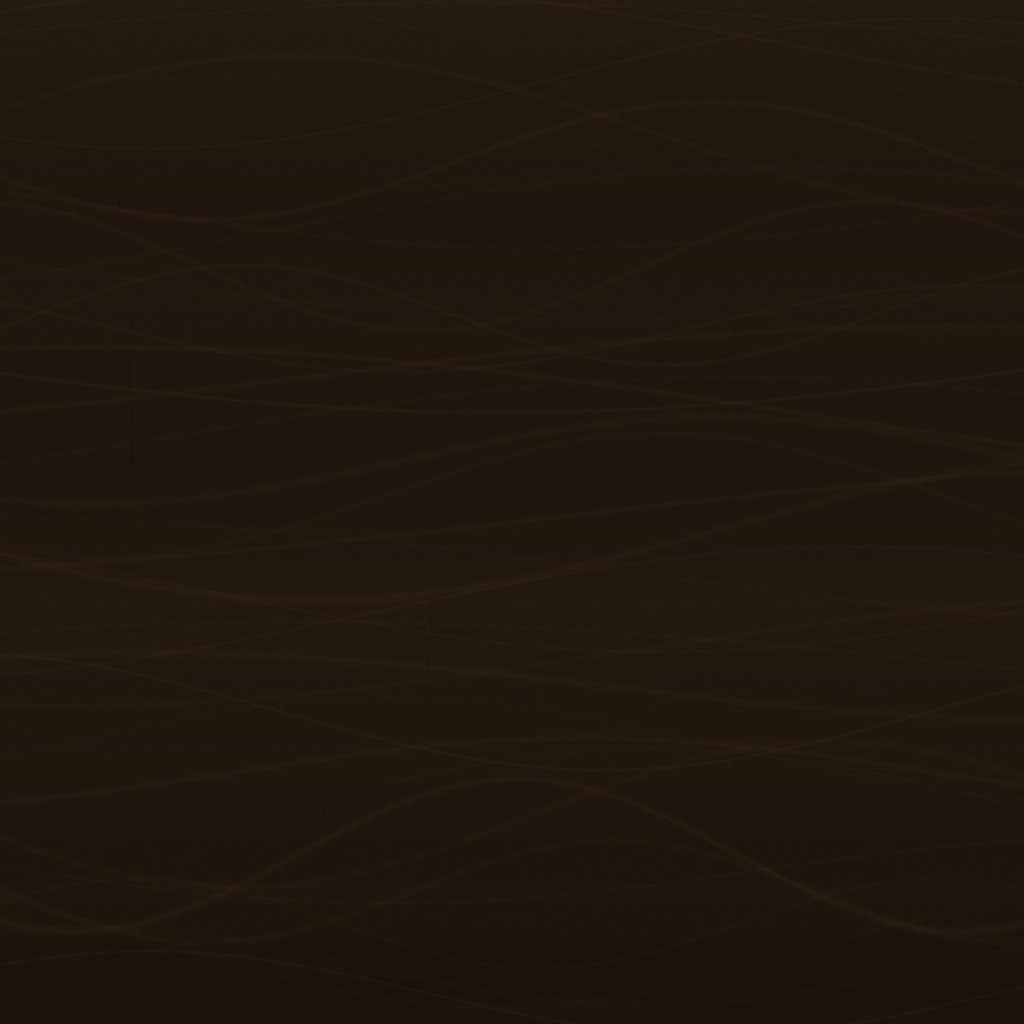
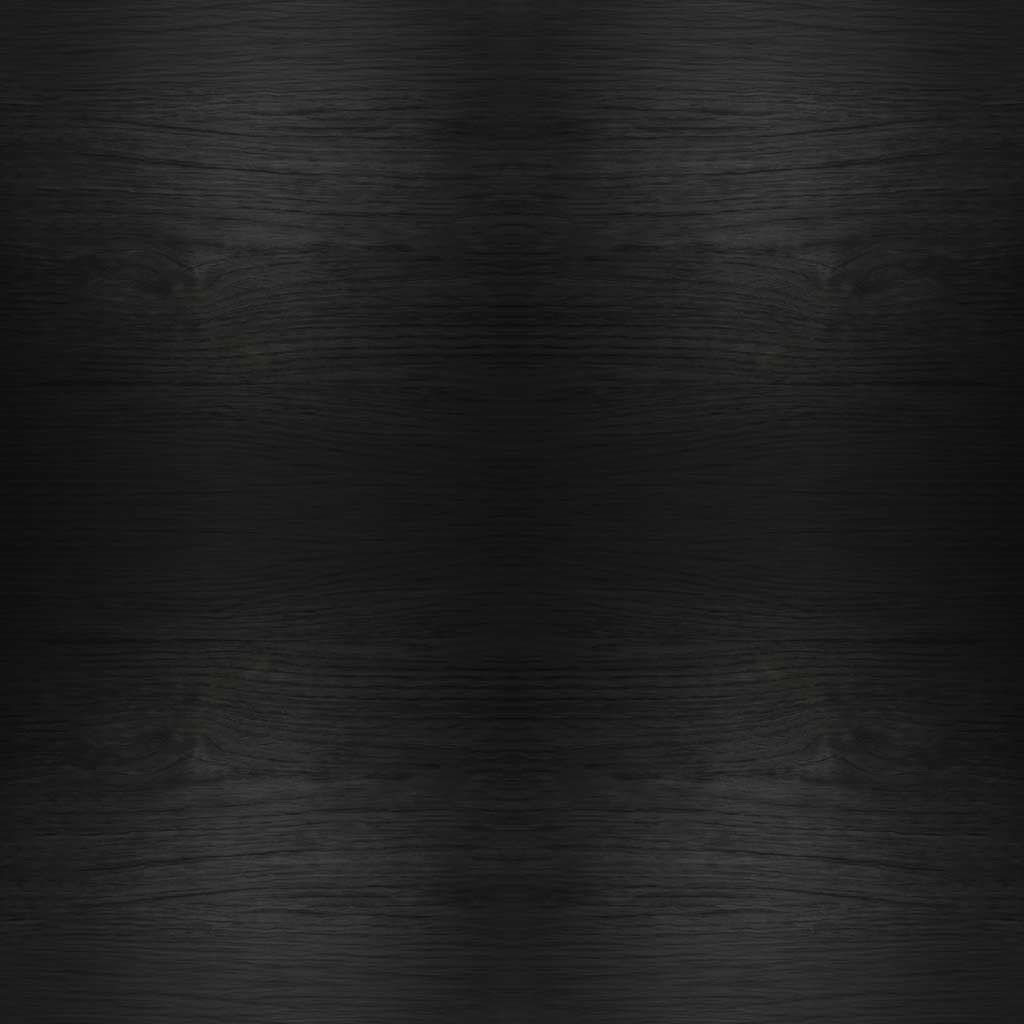
feat: uppdaterad mörk trätextur (ebony/dark oak)

diff --git a/public_html/game.html b/public_html/game.html
@@ -5,7 +5,7 @@
     <meta name="viewport" content="width=device-width, initial-scale=1.0, maximum-scale=1.0, user-scalable=no, viewport-fit=cover">
     <title>Finns i sjön PRO – Spel</title>
     <link rel="stylesheet" href="/css/main.css">
-    <link rel="stylesheet" href="/css/game.css?v=24">
+    <link rel="stylesheet" href="/css/game.css?v=25">
     <link rel="stylesheet" href="/css/animations.css">
     <link rel="stylesheet" href="/css/voice-chat.css?v=14">
     <link rel="stylesheet" href="/css/video-chat.css?v=14">
